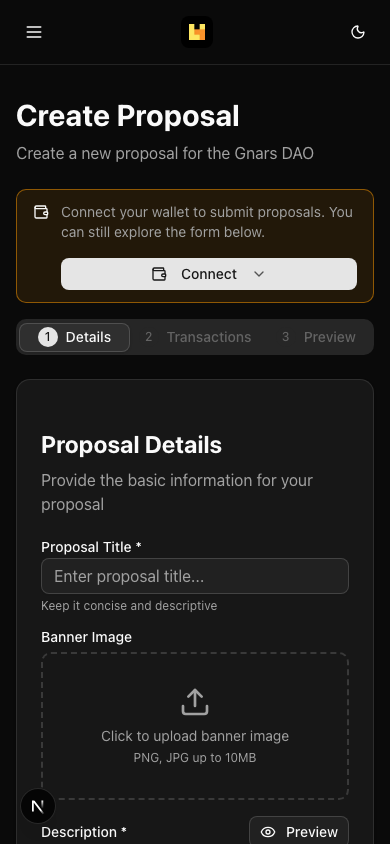
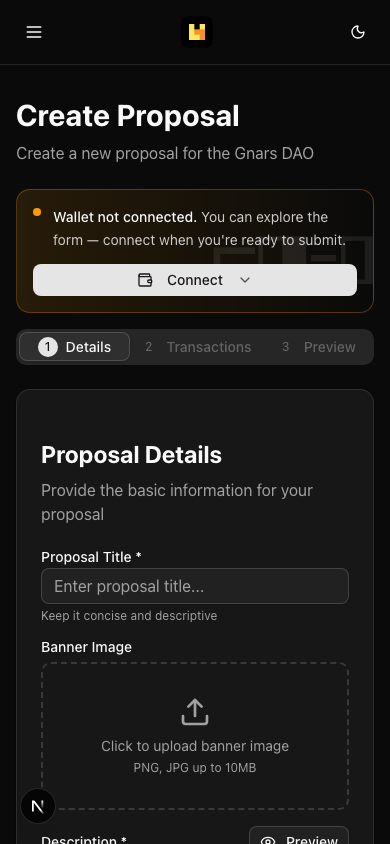
refactor: extract ProposalGatingBanner with refined design
- New dedicated component with gradient amber background, noggles
  watermark, and status pip indicator
- Cleaner separation: ProposalWizard stays focused on form logic
- Responsive layout: stacks on mobile, inline on desktop
- Both light and dark mode tested via Playwright

diff --git a/src/components/proposals/ProposalWizard.tsx b/src/components/proposals/ProposalWizard.tsx
@@ -2,32 +2,20 @@
 
 import { useState } from "react";
 import { zodResolver } from "@hookform/resolvers/zod";
-import { AlertTriangle, Loader2, Wallet } from "lucide-react";
-import Link from "next/link";
+import { Loader2 } from "lucide-react";
 import { FormProvider, useForm } from "react-hook-form";
-import { useAccount, useReadContract } from "wagmi";
+import { useAccount } from "wagmi";
 import { TransactionBuilder } from "@/components/proposals/builder/TransactionBuilder";
 import { ProposalDetailsForm } from "@/components/proposals/ProposalDetailsForm";
+import { ProposalGatingBanner } from "@/components/proposals/ProposalGatingBanner";
 import { ProposalPreview } from "@/components/proposals/ProposalPreview";
-import { Alert, AlertDescription } from "@/components/ui/alert";
 import { Button } from "@/components/ui/button";
 import { Card, CardContent } from "@/components/ui/card";
 import { Tabs, TabsContent, TabsList, TabsTrigger } from "@/components/ui/tabs";
-import { ConnectButton } from "@/components/ui/ConnectButton";
 import { ProposalEligibilityProvider } from "@/components/proposals/ProposalEligibilityContext";
 import { useProposalEligibility } from "@/hooks/useProposalEligibility";
 import { CHAIN, GNARS_ADDRESSES } from "@/lib/config";
 import { proposalSchema, type ProposalFormValues } from "./schema";
-
-const balanceOfAbi = [
-  {
-    name: "balanceOf",
-    type: "function",
-    stateMutability: "view",
-    inputs: [{ name: "owner", type: "address" }],
-    outputs: [{ name: "", type: "uint256" }],
-  },
-] as const;
 
 export function ProposalWizard() {
   const [currentTab, setCurrentTab] = useState("details");
@@ -45,18 +33,6 @@ export function ProposalWizard() {
   });
 
   const { address, isConnected } = useAccount();
-
-  const { data: nftBalance, isLoading: isBalanceLoading } = useReadContract({
-    address: GNARS_ADDRESSES.token,
-    abi: balanceOfAbi,
-    functionName: "balanceOf",
-    args: address ? [address] : undefined,
-    chainId: CHAIN.id,
-    query: { enabled: Boolean(address) },
-  });
-
-  const hasGnar = typeof nftBalance === "bigint" && nftBalance > 0n;
-
   const eligibility = useProposalEligibility({
     chainId: CHAIN.id,
     collectionAddress: GNARS_ADDRESSES.token,
@@ -89,39 +65,22 @@ export function ProposalWizard() {
 
   // Child builder handles add/update/remove via useFieldArray
 
-  // Determine warning banner state
-  const showDisconnectedBanner = !isConnected;
-  const showNoNftBanner = isConnected && !isBalanceLoading && !hasGnar;
+  if (isConnected && eligibility.isLoading) {
+    return (
+      <Card className="max-w-2xl mx-auto">
+        <CardContent className="flex items-center justify-center py-8">
+          <Loader2 className="h-6 w-6 animate-spin mr-2" />
+          <span>Checking proposal eligibility...</span>
+        </CardContent>
+      </Card>
+    );
+  }
 
   return (
     <ProposalEligibilityProvider value={eligibility}>
       <FormProvider {...methods}>
         <div className="max-w-4xl mx-auto space-y-4">
-          {showDisconnectedBanner && (
-            <Alert variant="default" className="border-amber-500/50 bg-amber-500/10">
-              <Wallet className="h-4 w-4 text-amber-500" />
-              <AlertDescription className="flex items-center justify-between gap-4 flex-wrap">
-                <span>
-                  Connect your wallet to submit proposals. You can still explore the form below.
-                </span>
-                <ConnectButton />
-              </AlertDescription>
-            </Alert>
-          )}
-
-          {showNoNftBanner && (
-            <Alert variant="default" className="border-amber-500/50 bg-amber-500/10">
-              <AlertTriangle className="h-4 w-4 text-amber-500" />
-              <AlertDescription className="flex items-center justify-between gap-4 flex-wrap">
-                <span>
-                  You need at least one Gnars NFT to submit proposals.{" "}
-                  <Link href="/" className="underline font-medium text-amber-500 hover:text-amber-400">
-                    Get a Gnar at the auction
-                  </Link>
-                </span>
-              </AlertDescription>
-            </Alert>
-          )}
+          <ProposalGatingBanner />
 
           <Tabs value={currentTab} onValueChange={setCurrentTab} className="gap-6">
             <TabsList className="w-full">

diff --git a/src/components/proposals/ProposalGatingBanner.tsx b/src/components/proposals/ProposalGatingBanner.tsx
@@ -1,0 +1,83 @@
+"use client";
+
+import Link from "next/link";
+import { useAccount, useReadContract } from "wagmi";
+import { ConnectButton } from "@/components/ui/ConnectButton";
+import { CHAIN, GNARS_ADDRESSES } from "@/lib/config";
+
+const balanceOfAbi = [
+  {
+    name: "balanceOf",
+    type: "function",
+    stateMutability: "view",
+    inputs: [{ name: "owner", type: "address" }],
+    outputs: [{ name: "", type: "uint256" }],
+  },
+] as const;
+
+type BannerVariant = "disconnected" | "no-nft" | null;
+
+export function ProposalGatingBanner() {
+  const { address, isConnected } = useAccount();
+
+  const { data: nftBalance, isLoading } = useReadContract({
+    address: GNARS_ADDRESSES.token,
+    abi: balanceOfAbi,
+    functionName: "balanceOf",
+    args: address ? [address] : undefined,
+    chainId: CHAIN.id,
+    query: { enabled: Boolean(address) },
+  });
+
+  const hasGnar = typeof nftBalance === "bigint" && nftBalance > 0n;
+
+  let variant: BannerVariant = null;
+  if (!isConnected) variant = "disconnected";
+  else if (!isLoading && !hasGnar) variant = "no-nft";
+
+  if (!variant) return null;
+
+  return (
+    <div className="relative overflow-hidden rounded-xl border border-amber-500/30 bg-gradient-to-r from-amber-500/[0.08] via-amber-500/[0.04] to-transparent dark:from-amber-500/[0.12] dark:via-amber-500/[0.06] dark:to-transparent">
+      {/* Decorative noggles watermark */}
+      <div
+        className="pointer-events-none absolute -right-4 top-1/2 -translate-y-1/2 select-none text-[5rem] leading-none opacity-[0.06] dark:opacity-[0.08]"
+        aria-hidden="true"
+      >
+        ⌐◨-◨
+      </div>
+
+      <div className="relative flex flex-col gap-3 p-4 sm:flex-row sm:items-center sm:justify-between sm:gap-4">
+        {/* Left: amber pip + message */}
+        <div className="flex items-start gap-3 sm:items-center">
+          <span className="mt-0.5 flex h-2 w-2 shrink-0 rounded-full bg-amber-500 sm:mt-0" />
+
+          {variant === "disconnected" ? (
+            <p className="text-sm leading-relaxed text-foreground/80">
+              <span className="font-medium text-foreground">Wallet not connected.</span>{" "}
+              You can explore the form — connect when you&apos;re ready to submit.
+            </p>
+          ) : (
+            <p className="text-sm leading-relaxed text-foreground/80">
+              <span className="font-medium text-foreground">No Gnars NFT found.</span>{" "}
+              Holding a Gnar lets you submit proposals.{" "}
+              <Link
+                href="/"
+                className="font-medium text-amber-600 underline decoration-amber-600/40 underline-offset-2 transition-colors hover:text-amber-500 hover:decoration-amber-500 dark:text-amber-400 dark:decoration-amber-400/40 dark:hover:text-amber-300"
+              >
+                Get one at the auction
+              </Link>
+            </p>
+          )}
+        </div>
+
+        {/* Right: action */}
+        {variant === "disconnected" && (
+          <div className="shrink-0 sm:ml-auto">
+            <ConnectButton />
+          </div>
+        )}
+      </div>
+    </div>
+  );
+}
